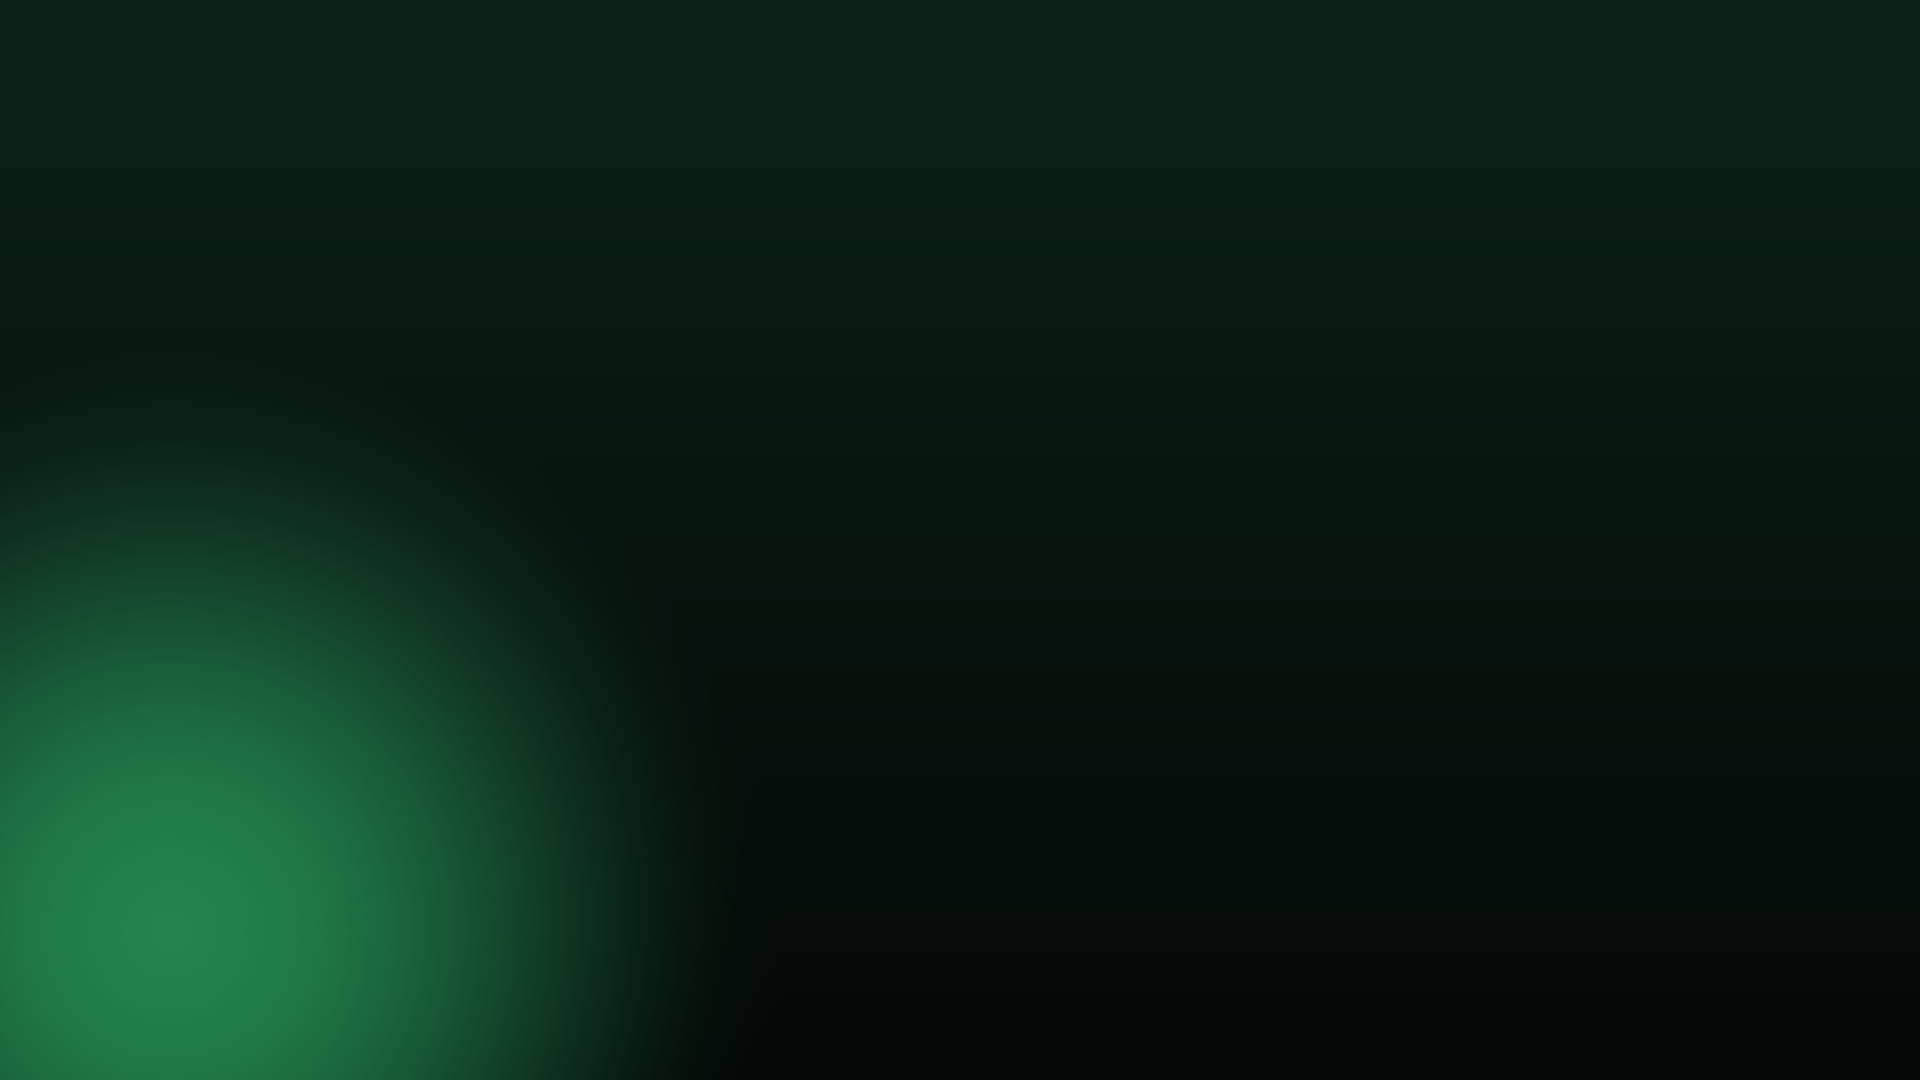
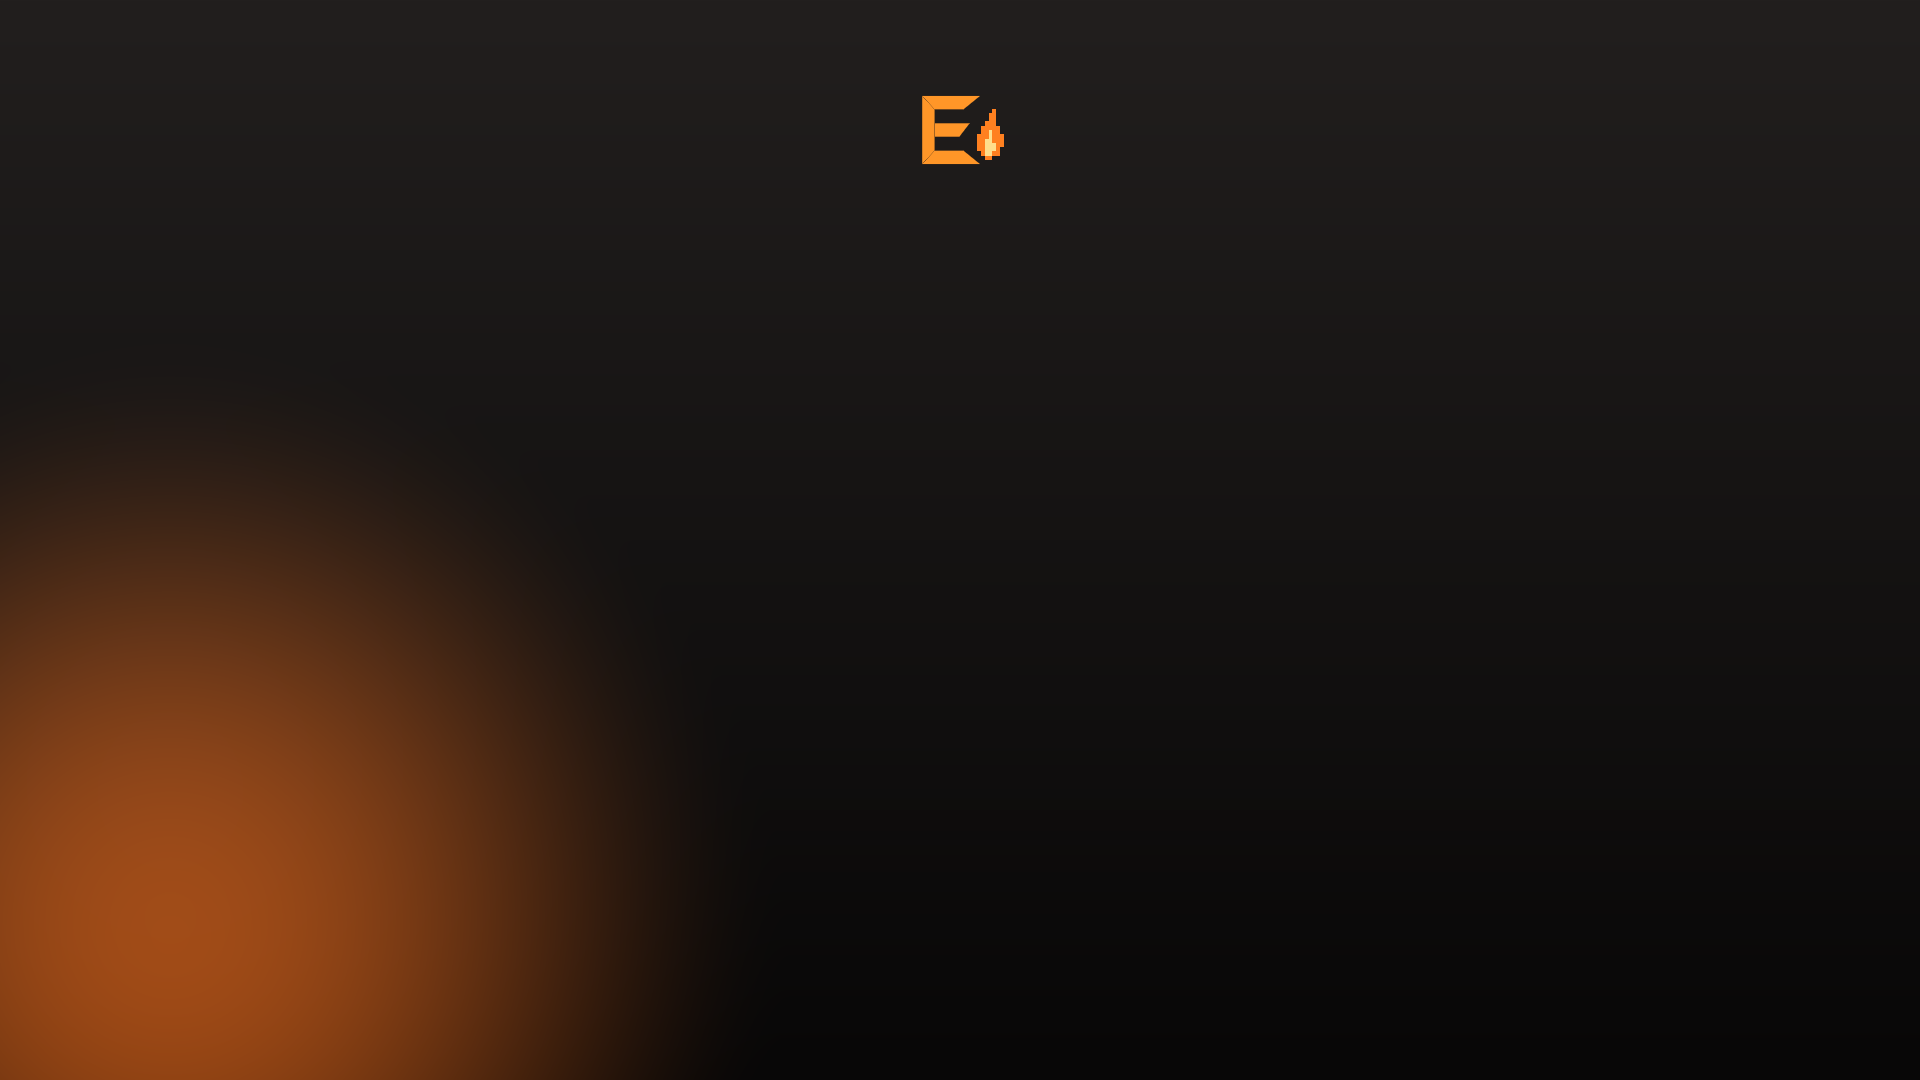
Linux track: warm amber theme everywhere
- GTK accent, panels, terminal, Calamares sidebar, fastfetch text and the
  BIOS boot menu switch from green to amber on dark warm brown
- boot menu backgrounds use the charcoal/amber look and show the logo
- green wallpaper dropped (four warm wallpapers remain, charcoal default)
- build log now prints the GRUB theme file so its colours can be matched

Changed region(s): [[0.0, 0.3667, 0.3438, 1.0], [0.4688, 0.0917, 0.5312, 0.1528]]

diff --git a/linux/config/includes.chroot/etc/skel/.config/gtk-3.0/gtk.css b/linux/config/includes.chroot/etc/skel/.config/gtk-3.0/gtk.css
@@ -1,45 +1,45 @@
-/* EmberOS accent: mint green instead of the default blue */
-@define-color theme_selected_bg_color #3DDC84;
-@define-color theme_selected_fg_color #04140B;
-@define-color accent_color #3DDC84;
-@define-color accent_bg_color #3DDC84;
-@define-color accent_fg_color #04140B;
-@define-color link_color #3DDC84;
-@define-color theme_unfocused_selected_bg_color #2C9E60;
+/* EmberOS accent: warm amber instead of the default blue */
+@define-color theme_selected_bg_color #FF9628;
+@define-color theme_selected_fg_color #1A0E06;
+@define-color accent_color #FF9628;
+@define-color accent_bg_color #FF9628;
+@define-color accent_fg_color #1A0E06;
+@define-color link_color #FFB04D;
+@define-color theme_unfocused_selected_bg_color #B8661F;
 
 /* Desktop icon labels: light text with a soft shadow so they read on the dark wallpaper */
 XfdesktopIconView.view,
 .xfdesktop-icon-view.view,
 .xfdesktop-icon-view {
-    color: #E8FFF0;
+    color: #FFF1E4;
     text-shadow: 0 1px 3px rgba(0, 0, 0, 0.95);
 }
 
-/* Panels: dark green with a thin accent line */
+/* Panels: dark warm brown with a thin accent line */
 .xfce4-panel.background,
 .xfce4-panel .background {
-    background-color: #0A1810;
+    background-color: #1A1210;
     background-image: none;
-    color: #D4EBDD;
+    color: #F0E4DA;
 }
 
 .xfce4-panel button,
 .xfce4-panel label {
-    color: #D4EBDD;
+    color: #F0E4DA;
 }
 
 .xfce4-panel button:hover {
-    background-color: #1A4A30;
+    background-color: #3A2418;
     background-image: none;
 }
 
 .xfce4-panel button:checked,
 .xfce4-panel button:active {
-    background-color: #2C9E60;
+    background-color: #C8651A;
     background-image: none;
 }
 
 /* Top panel gets the accent line on its bottom edge */
 #XfcePanelWindow:first-child {
-    border-bottom: 1px solid #23523B;
+    border-bottom: 1px solid #5A3A22;
 }

diff --git a/linux/tools/make_boot_images.py b/linux/tools/make_boot_images.py
@@ -4,20 +4,25 @@
   linux/boot/splash-640x480.png     for the BIOS (syslinux) boot menu
   linux/boot/grub-background.png    for the UEFI (GRUB) boot menu
 
-Both use the same dark green gradient and soft glow as the wallpaper.
+Both use the charcoal gradient and amber glow of the default wallpaper, with
+the EmberOS logo.
 """
 import os
 import re
 import struct
+import sys
 import zlib
 
 HERE = os.path.dirname(os.path.abspath(__file__))
+sys.path.insert(0, HERE)
+import make_logo  # noqa: E402
+
 FONT_H = os.path.join(HERE, "..", "..", "kernel", "font.h")
 OUT_DIR = os.path.join(HERE, "..", "boot")
 
-TOP = (12, 34, 24)
-BOTTOM = (3, 8, 6)
-GLOW = (30, 120, 70)
+TOP = (34, 31, 30)
+BOTTOM = (8, 7, 7)
+GLOW = (150, 66, 14)
 
 
 def load_font():
@@ -26,8 +31,21 @@ def load_font():
     return [[int(v, 16) for v in r.split(",") if v] for r in rows]
 
 
+def draw_logo(px, width, x0, y0, side):
+    """Paint the logo (amber E, orange flame) with its own alpha."""
+    pxu = 2.0 / side
+    for j in range(side):
+        v = (j + 0.5) / side * 2 - 1
+        for i in range(side):
+            r, g, b, a = make_logo.pixel((i + 0.5) / side * 2 - 1, v, pxu)
+            if a > 0:
+                o = ((y0 + j) * width + x0 + i) * 3
+                for k, c in enumerate((r, g, b)):
+                    px[o + k] = int(px[o + k] * (1 - a) + c * a)
+
+
 def render(width, height, glow_center, glow_radius, text=None, text_scale=0,
-           text_pos=(0, 0), text_color=(61, 220, 132)):
+           text_pos=(0, 0), text_color=(255, 150, 40), logo=None):
     font = load_font()
     px = bytearray(width * height * 3)
     gx, gy = glow_center
@@ -63,6 +81,9 @@ def render(width, height, glow_center, glow_radius, text=None, text_scale=0,
                                 o = (yy * width + xx) * 3
                                 px[o:o + 3] = bytes(text_color)
 
+    if logo:
+        draw_logo(px, width, *logo)
+
     raw = bytearray()
     for y in range(height):
         raw.append(0)
@@ -85,11 +106,13 @@ def main():
     text = "EmberOS"
     scale = 5
     width = len(text) * 8 * scale
-    splash = render(640, 480, (110, 420), 330, text, scale, ((640 - width) // 2, 26))
+    tx = (640 - width) // 2
+    splash = render(640, 480, (110, 420), 330, text, scale, (tx, 26),
+                    logo=(tx - 84, 12, 72))
     with open(os.path.join(OUT_DIR, "splash-640x480.png"), "wb") as f:
         f.write(splash)
 
-    grub = render(1920, 1080, (170, 950), 620)
+    grub = render(1920, 1080, (170, 950), 620, logo=(900, 70, 120))
     with open(os.path.join(OUT_DIR, "grub-background.png"), "wb") as f:
         f.write(grub)
 

diff --git a/linux/tools/make_wallpaper.py b/linux/tools/make_wallpaper.py
@@ -34,8 +34,6 @@ STYLES = {
               glow=(170, 80, 20), center=(0.12, 0.92), radius=0.34, wm=(32, 40, 60), embers=0),
     "4": dict(name="black-embers", top=(11, 8, 7), bottom=(2, 2, 2),
               glow=(110, 46, 10), center=(0.5, 1.15), radius=0.55, wm=(30, 20, 14), embers=120),
-    "5": dict(name="green-embers", top=(12, 34, 24), bottom=(4, 10, 7),
-              glow=(30, 120, 70), center=(0.14, 0.9), radius=0.32, wm=(22, 58, 41), embers=60),
 }
 
 
